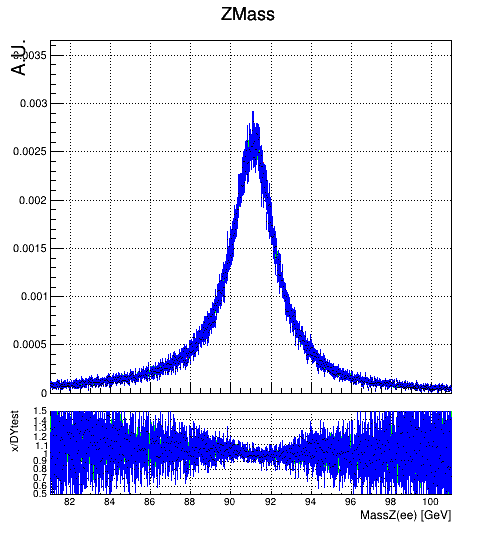
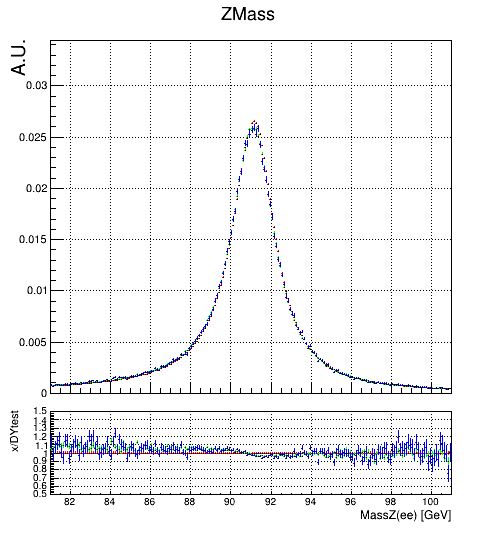
plotter.py add parser

diff --git a/Plotter/plotter.py b/Plotter/plotter.py
@@ -8,7 +8,7 @@ parser = argparse.ArgumentParser(description="test")
 parser.add_argument("--hist", required=True, help="histogram name")
 parser.add_argument("--xAxis", required=True, help="x axis name")
 parser.add_argument("--yAxis", required=True, help="y axis name")
-parser.add_argument("--rebin", default=-1, help="rebin factor")
+parser.add_argument("--rebin", default=-1, type=int, help="rebin factor")
 
 args = parser.parse_args()
 
@@ -31,7 +31,7 @@ hists = {}
 hist_name = str(args.hist)
 x_axis = str(args.xAxis)
 y_axis = str(args.yAxis)
-rebin = int(args.rebin)
+rebin_factor = int(args.rebin)
 #hist_name = "ZMass_ee"
 #x_axis = "M(ee)"
 #y_axis = "A.U."
@@ -53,7 +53,7 @@ for file_name in file_names:
         raise(NameError)
 
 kDist = kDistributions()
-kDist.get_hists(hists=hists, scale="normalize", rebin=rebin)
+kDist.get_hists(hists=hists, scale="normalize", rebin=rebin_factor)
 kDist.generate_ratio(base_name="DYtest")
 kDist.deco_hists(y_title=y_axis)
 kDist.deco_ratio(x_title=x_axis, y_title="x/DYtest")

diff --git a/Plotter/plotterBase.py b/Plotter/plotterBase.py
@@ -207,6 +207,7 @@ class kDistributions(plotterBase):
         super().info().DrawLatexNDC(0.68, 0.93, info)
         super().logo().DrawLatexNDC(0.15, 0.86, cmsText)
         super().extra_logo().DrawLatexNDC(0.15, 0.82, extraText)
+        super().cvs().Draw()
 
     def draw(self):
         super().cvs().Draw()
